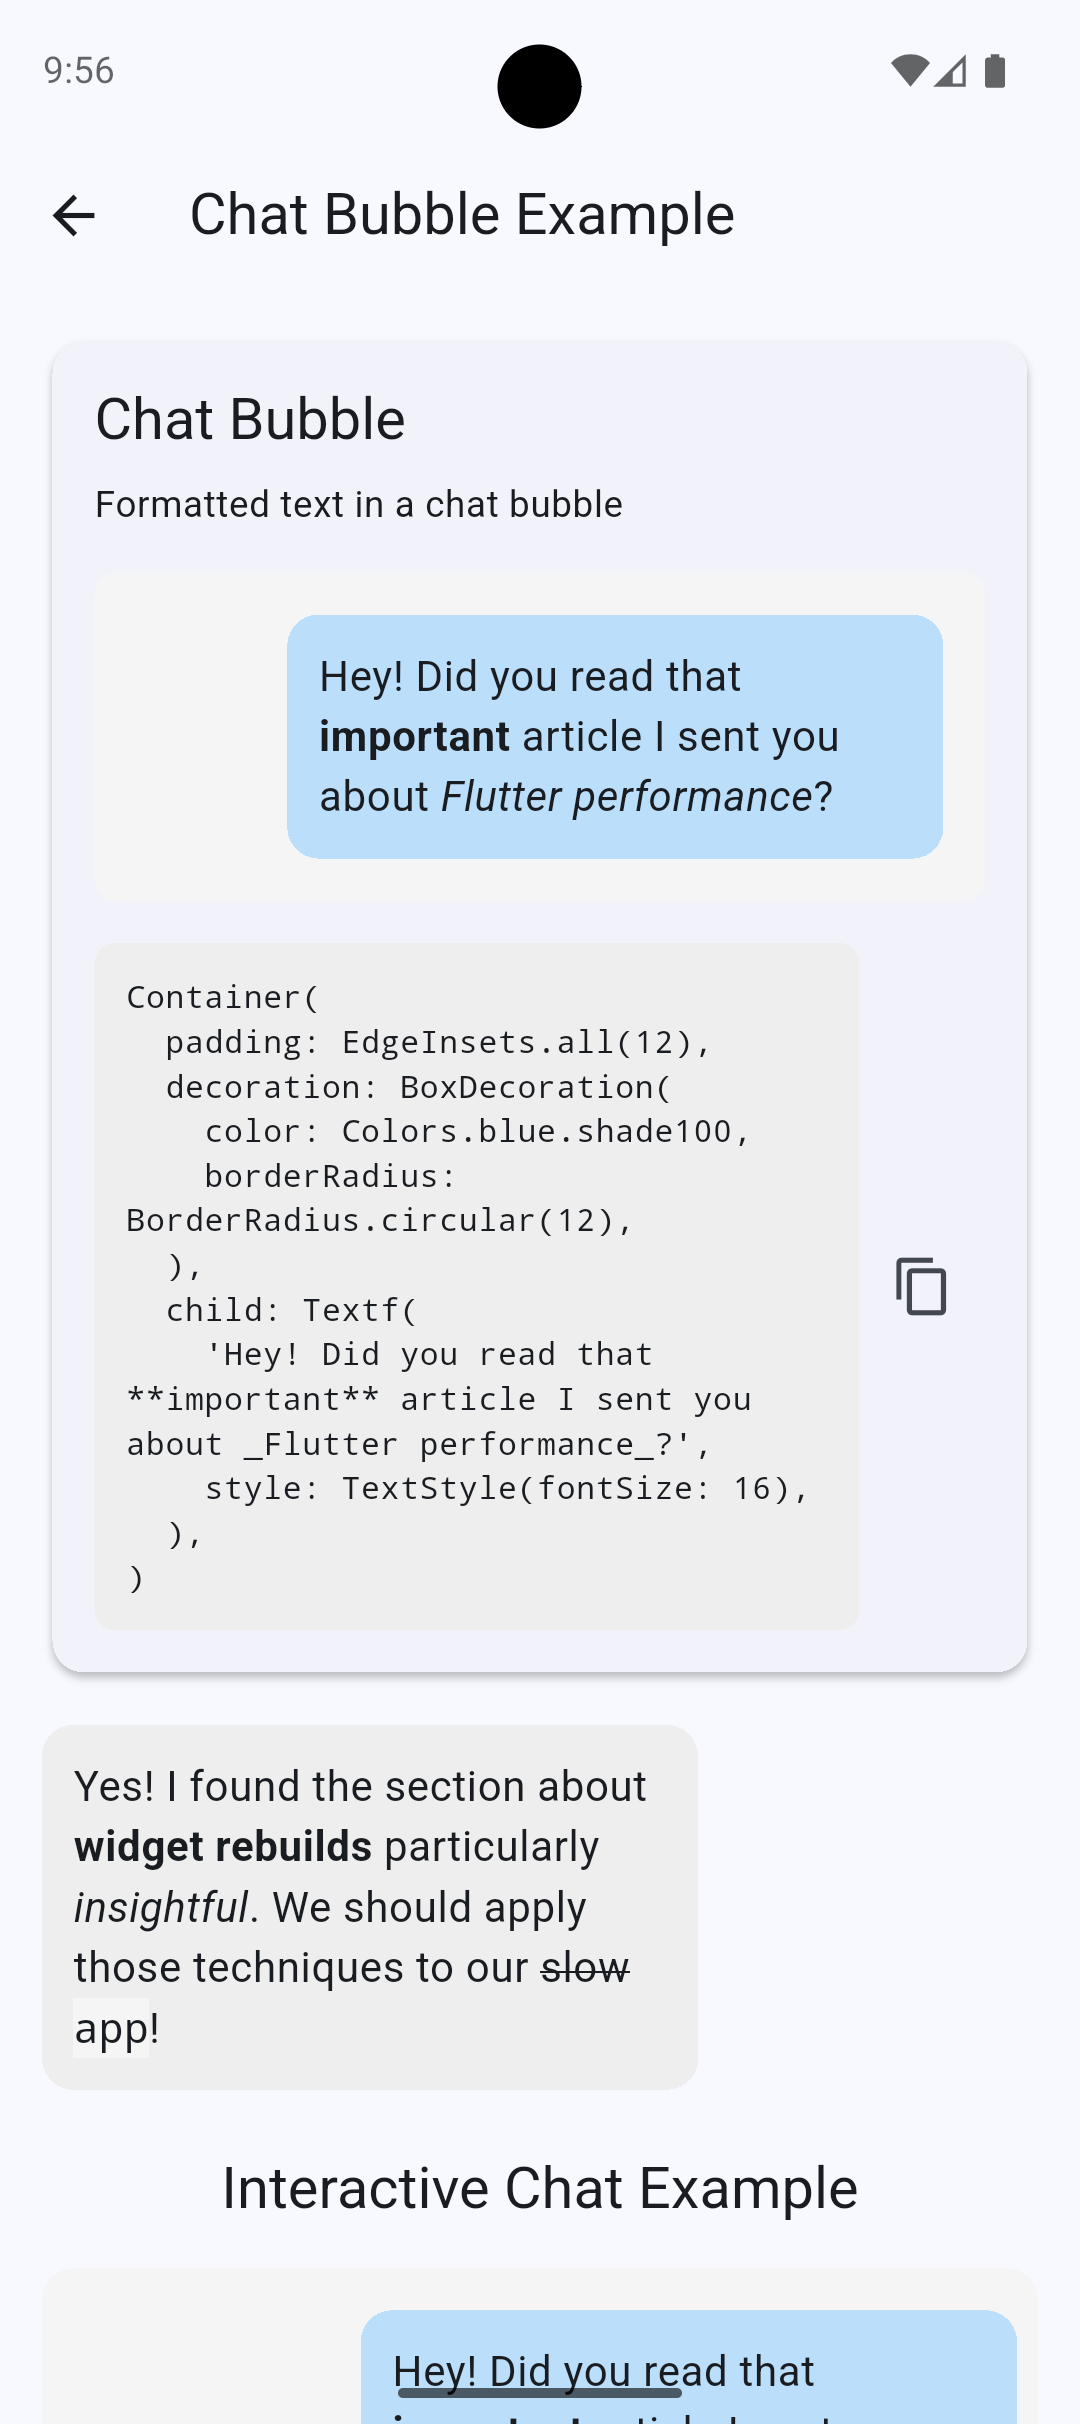
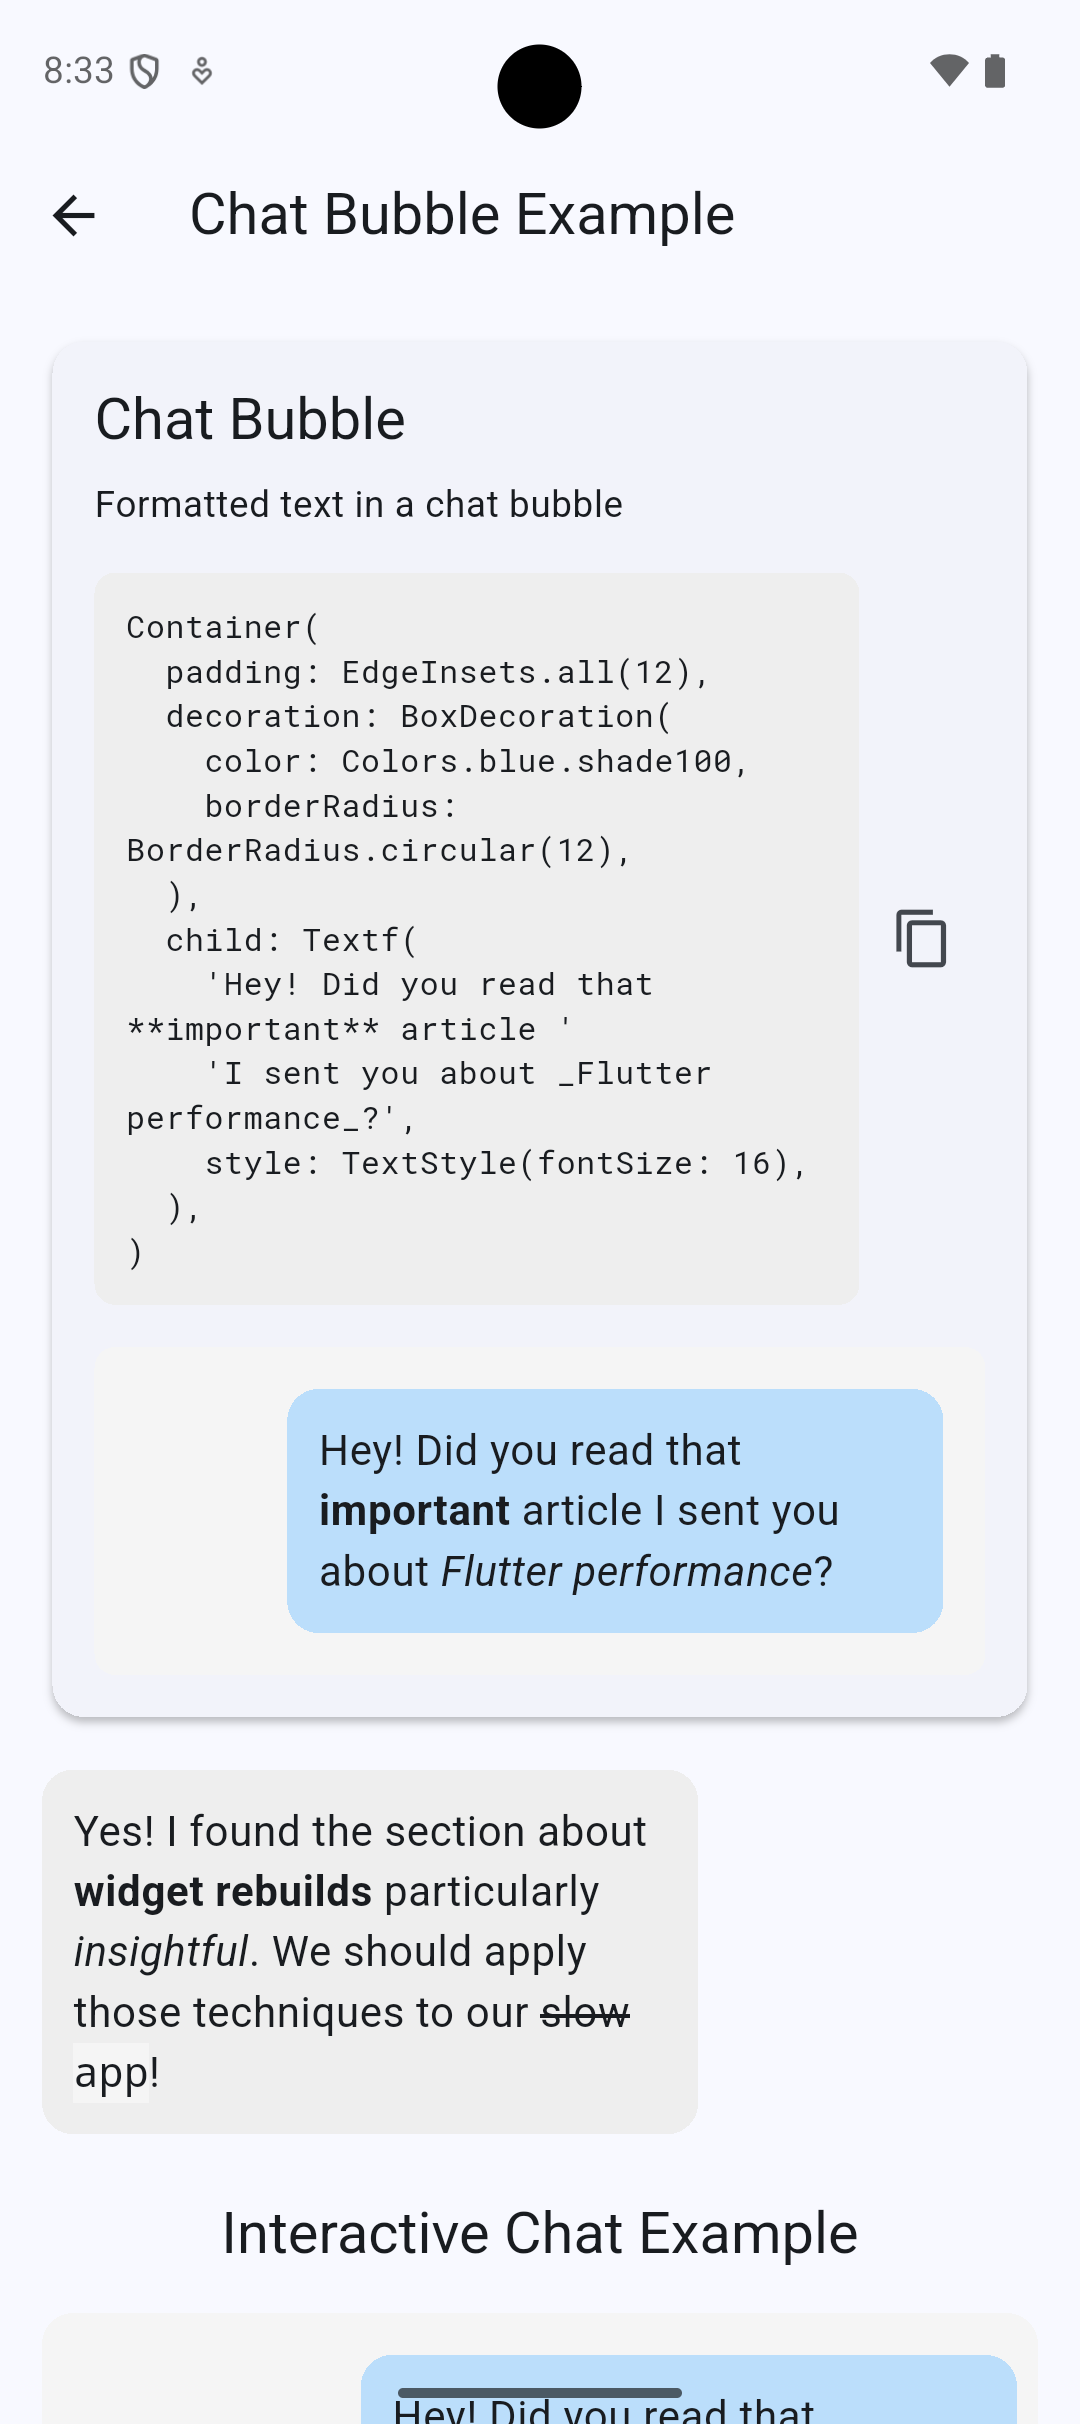
chore: Update CHANGELOG and README for version 0.2.0

diff --git a/README.md b/README.md
@@ -16,6 +16,7 @@ The name "Textf" is inspired by the C standard library function `printf` (print 
 - **Performance-focused** - Optimized for speed and memory efficiency
 - **Flutter-friendly** - Familiar API that mirrors Flutter's standard Text widget
 - **Minimal dependencies** - No external packages required
+- **Link support** - Interactive links with customizable styling and hover effects
 
 Perfect for chat applications, comment sections, UI elements, and any scenario where simple inline formatting is all you need.
 
@@ -25,9 +26,9 @@ Perfect for chat applications, comment sections, UI elements, and any scenario w
 | :----------------------------------------------: | :------------------------------------------------: | :--------------------------------------------------: |
 | ![Basic Formatting](https://github.com/PhilippHGerber/textf/raw/main/images/basic_formatting.png) | ![Nested Formatting](https://github.com/PhilippHGerber/textf/raw/main/images/nested_formatting.png) | ![Complex Formatting](https://github.com/PhilippHGerber/textf/raw/main/images/complex_formatting.png) |
 
-|             Chat Bubble Example             |             Notification Example              |
-| :-----------------------------------------: | :-------------------------------------------: |
-| ![Chat Bubble](https://github.com/PhilippHGerber/textf/raw/main/images/chat_bubble.png) | ![Notification](https://github.com/PhilippHGerber/textf/raw/main/images/notification.png) |
+|             Chat Bubble Example             |             Notification Example              |             Links Example              |
+| :-----------------------------------------: | :-------------------------------------------: | :-------------------------------------------: |
+| ![Chat Bubble](https://github.com/PhilippHGerber/textf/raw/main/images/chat_bubble.png) | ![Notification](https://github.com/PhilippHGerber/textf/raw/main/images/notification.png) | ![Links](https://github.com/PhilippHGerber/textf/raw/main/images/links.png) |
 
 ## Installation
 
@@ -35,7 +36,7 @@ Add Textf to your `pubspec.yaml`:
 
 ```yaml
 dependencies:
-  textf: ^0.1.0
+  textf: ^0.2.0
 ```
 
 Then run:
@@ -59,7 +60,7 @@ class MyWidget extends StatelessWidget {
   @override
   Widget build(BuildContext context) {
     return Textf(
-      'Hello **bold** *italic* ~~strikethrough~~ `code`',
+      'Hello **bold** *italic* ~~strikethrough~~ `code` [link](https://flutter.dev)',
       style: TextStyle(fontSize: 16),
     );
   }
@@ -84,6 +85,8 @@ Textf supports the following inline formatting syntax, similar to a subset of Ma
 ---
 
 ### Links (`[text](url)`)
+
+![image](https://github.com/PhilippHGerber/textf/raw/main/images/link-hover.gif)
 
 - **Syntax:** Enclose the display text in square brackets `[]` and the URL in parentheses `()`.
 - **Rendering:** Links are rendered with a distinct style (usually blue and underlined) that can be customized via `TextfOptions`.
@@ -129,7 +132,8 @@ Using the same marker type for nested formatting may result in unexpected render
 
 ```dart
 Textf(
-  'The **quick** _brown_ fox jumps over the ~~lazy~~ `dog`. \*Escaped asterisks\*',
+  'The **quick** _brown_ fox jumps over '
+  'the ~~lazy~~ `dog`. \*Escaped asterisks\*',
   style: TextStyle(fontSize: 18),
   textAlign: TextAlign.center,
 )
@@ -137,33 +141,61 @@ Textf(
 
 ![image](https://github.com/PhilippHGerber/textf/raw/main/images/quick_brown_fox.png)
 
-### Real-world Examples
+## Customizing with TextfOptions
 
-#### Chat Bubble
+The `TextfOptions` widget allows you to customize the appearance and behavior of formatted text throughout your app. It uses the InheritedWidget pattern to make configuration available to all descendant `Textf` widgets.
+
+### Basic Usage
 
 ```dart
-Container(
-  padding: EdgeInsets.all(12),
-  decoration: BoxDecoration(
-    color: Colors.blue.shade100,
-    borderRadius: BorderRadius.circular(12),
-  ),
+TextfOptions(
+  // Styling options
+  boldStyle: TextStyle(fontWeight: FontWeight.w900, color: Colors.red),
+  italicStyle: TextStyle(fontStyle: FontStyle.italic, color: Colors.blue),
+  codeStyle: TextStyle(fontFamily: 'RobotoMono', backgroundColor: Colors.grey.shade200),
+
+  // Link options
+  urlStyle: TextStyle(color: Colors.green),
+  urlHoverStyle: TextStyle(decoration: TextDecoration.underline, fontWeight: FontWeight.bold),
+  urlMouseCursor: SystemMouseCursors.click,
+
+  // Link callbacks
+  onUrlTap: (url, displayText) {
+    launchUrl(Uri.parse(url));
+  },
+  onUrlHover: (url, displayText, isHovering) {
+    print('Hover state changed for $url: $isHovering');
+  },
+
   child: Textf(
-    'Hey! Did you read that **important** article I sent you about _Flutter performance_?',
+    'This text has **bold**, *italic*, `code`, and [links](https://example.com).',
     style: TextStyle(fontSize: 16),
   ),
 )
 ```
 
-#### Notification
+### Inheritance
+
+When multiple `TextfOptions` are nested in the widget tree, options are inherited through the hierarchy. If a specific property (e.g., `boldStyle`) is `null` on the nearest ancestor, Textf will automatically look up the widget tree for the next ancestor that defines that property.
 
 ```dart
-ListTile(
-  leading: Icon(Icons.notifications),
-  title: Text('System Update'),
-  subtitle: Textf(
-    'Your device will restart in **5 minutes**. Save your work ~~or else~~!',
-    style: TextStyle(fontSize: 14),
+TextfOptions(
+  // Root level options (global defaults)
+  boldStyle: TextStyle(fontWeight: FontWeight.w900),
+  urlStyle: TextStyle(color: Colors.blue),
+  onUrlTap: (url, text) => print('Root tap: $url'),
+  child: Column(
+    children: [
+      Textf('This uses blue links and w900 bold.'),
+
+      TextfOptions(
+        // Override only URL style for this subtree
+        urlStyle: TextStyle(color: Colors.green),
+        // boldStyle is inherited from the root
+        // onUrlTap is inherited from the root
+        child: Textf('This uses green links and w900 bold.'),
+      ),
+    ],
   ),
 )
 ```
@@ -205,8 +237,8 @@ Textf is intentionally focused on inline formatting only:
 
 - Maximum nesting depth of 2 formatting levels
 - No support for block elements (headings, lists, quotes, etc.)
-- No support for links or images
-- Designed for inline formatting only, not full Markdown rendering
+- No support for images
+- Designed for inline formatting and links only, not full Markdown rendering
 
 If you need more comprehensive Markdown features, consider a full Markdown package.
 
@@ -214,45 +246,36 @@ If you need more comprehensive Markdown features, consider a full Markdown packa
 
 ### Implemented Features
 
-- [x] Bold formatting with `**text**` or `__text__`
-- [x] Italic formatting with `*text*` or `_text_`
-- [x] Combined bold+italic with `***text***` or `___text___`
-- [x] Strikethrough with `~~text~~`
-- [x] Inline code with `` `code` ``
-- [x] Nested formatting (up to 2 levels deep)
-- [x] Escaped characters with backslash
-- [x] Performance optimization with caching
-- [x] Fast paths for plain text
+- ✅ Bold formatting with `**text**` or `__text__`
+- ✅ Italic formatting with `*text*` or `_text_`
+- ✅ Combined bold+italic with `***text***` or `___text___`
+- ✅ Strikethrough with `~~text~~`
+- ✅ Inline code with `` `code` ``
+- ✅ Nested formatting (up to 2 levels deep)
+- ✅ Escaped characters with backslash
+- ✅ Performance optimization with caching
+- ✅ Fast paths for plain text
+- ✅ Link support with `[text](url)`
+- ✅ Custom styles for each formatting type
 
 ### Planned Features
 
-- [ ] Full support for Flutter text properties
-- [ ] Link support with `[text](url)`
-- [ ] Custom styles for each formatting type
-- [ ] Superscript and subscript with `^text^` and `~text~`
-- [ ] Highlighting/background color
-- [ ] Color text formatting
-- [ ] Custom tokenizer/parser support
-- [ ] RTL language optimization
-- [ ] Improved accessibility features
+- 🔲 Full support for Flutter text properties
+- 🔲 Superscript and subscript with `^text^` and `~text~`
+- 🔲 Custom tokenizer/parser support
+- 🔲 RTL language optimization
+- 🔲 Improved accessibility features
 
 ## When to Use Textf
 
-✅ When you need simple inline text formatting
-
-✅ When performance is critical
-
-✅ When you want a familiar Flutter Text-like API
-
-✅ For chat messages, comments, captions, or UI labels
-
-✅ For internationalized text with formatting
-
-❌ When you need full Markdown with blocks, links, images
-
-❌ When you need HTML rendering
-
-❌ For complex document rendering
+- ✅ When you need simple inline text formatting
+- ✅ When performance is critical
+- ✅ When you want a familiar Flutter Text-like API
+- ✅ For chat messages, comments, captions, or UI labels
+- ✅ For internationalized text with formatting
+- ❌ When you need full Markdown with blocks, links, images
+- ❌ When you need HTML rendering
+- ❌ For complex document rendering
 
 ## Internationalization (i18n)
 

diff --git a/CHANGELOG.md b/CHANGELOG.md
@@ -2,6 +2,30 @@
 
 All notable changes to the `textf` package will be documented in this file.
 
+## 0.2.0 - 2025-04-12
+
+### Added
+
+- **Link Support**: Implemented full support for Markdown-style links with `[text](url)` syntax
+  - Added interactive link styling with customizable colors and decorations
+  - Created hover effects for links with mouse cursor changes
+  - Enabled nested formatting within link text (e.g., `[**bold** link](url)`)
+  - Added `onUrlTap` and `onUrlHover` callbacks for link interaction
+
+- **TextfOptions**: Introduced a new widget to customize text formatting styles
+  - Global styling options for all formatting types (bold, italic, code, etc.)
+  - Configurable link appearance and behavior
+  - Inheritance-based configuration through the widget tree
+
+- **Enhanced Styling**: Added support for more detailed text styling
+  - Font family customization for code blocks
+  - Expanded default styles for each formatting type
+
+### Fixed
+
+- Updated default font family for inline code text to RobotoMono for better readability
+- Enabled trailing commas in analysis options for code consistency
+
 ## 0.1.1 - 2025-04-05
 
 ### Changed
